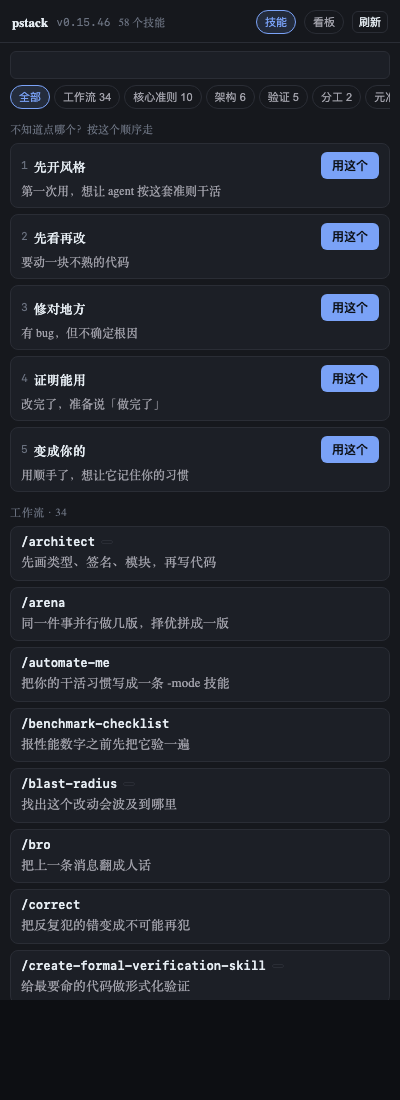
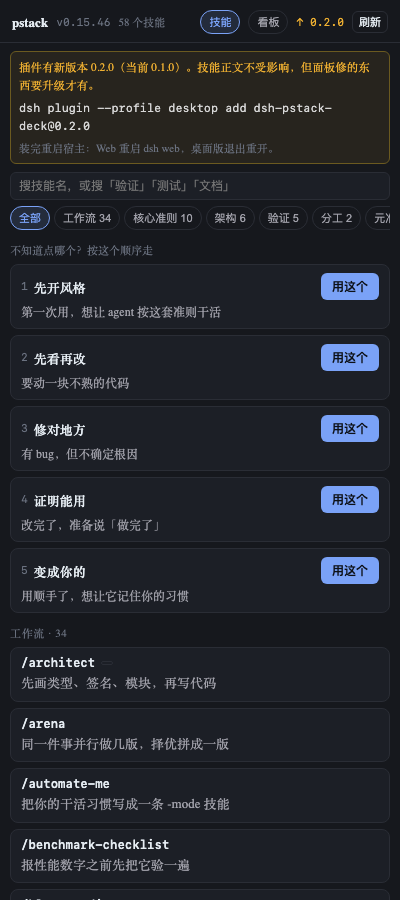
0.2.0：查更新、开发热循环、热更新边界写清
- src/update.js：按数字比版本、只缓存 latest、失败不缓存、时钟回拨不信缓存
- 面板标题栏显示插件版本，有新版本转琥珀色 ↑ 并在技能视图顶部给可复制的升级命令
- scripts/dev.mjs：watch src/ 自动重启临时宿主（npm run dev）
- README：热更新/热安装边界表 + 发版三坑（镜像不能发、2FA token、staged 占位版）
- 测试 46/46

diff --git a/src/client.js b/src/client.js
@@ -54,6 +54,8 @@ window.__ModuleLoader__.load({
       flow: false, // 看板：列表 or 流程图
       toast: '',
       toastAt: 0,
+      upd: null, // {current, latest, hasUpdate, error}；null = 还没问过 npm
+      updBusy: false,
     }
     const subs = new Set()
     const emit = () => subs.forEach((fn) => fn(store))
@@ -78,6 +80,18 @@ window.__ModuleLoader__.load({
         set({ catalog: cat, loading: false })
       } catch (e) {
         set({ loading: false, error: String((e && e.message) || e) })
+      }
+    }
+
+    // 问一次 npm 上有没有新版本。宿主那半缓存十分钟，所以开面板顺手查一下不心疼。
+    const checkUpd = async (fresh) => {
+      if (store.updBusy) return
+      set({ updBusy: true })
+      try {
+        const r = await rpc('update', fresh ? { fresh: true } : {})
+        set({ upd: r, updBusy: false })
+      } catch (e) {
+        set({ upd: { error: String((e && e.message) || e) }, updBusy: false })
       }
     }
 
@@ -696,6 +710,7 @@ window.__ModuleLoader__.load({
       useStore()
       const cat = store.catalog
       React.useEffect(() => { if (!cat && store.loading) load(false) }, [])
+      React.useEffect(() => { if (!store.upd) checkUpd(false) }, [])
       React.useEffect(() => {
         if (props && props.sessionId && props.sessionId !== store.sid) set({ sid: props.sessionId })
       }, [props && props.sessionId])
@@ -712,6 +727,19 @@ window.__ModuleLoader__.load({
         h('div', { key: 'sp', style: { flex: 1 } }),
         h('button', { key: 'vs', style: { ...s.chip(store.view === 'skills'), fontSize: 11 }, onClick: () => set({ view: 'skills' }) }, '技能'),
         h('button', { key: 'vb', style: { ...s.chip(store.view === 'board'), fontSize: 11 }, onClick: toBoard }, '看板'),
+        store.upd && !store.upd.error
+          ? h('span', {
+            key: 'pv',
+            title: store.upd.hasUpdate
+              ? `插件有新版本 ${store.upd.latest}（当前 ${store.upd.current}）`
+              : `插件 ${store.upd.current || ''} 是最新的`,
+            style: {
+              ...s.faint, fontFamily: C.mono, fontSize: 11, cursor: 'pointer',
+              color: store.upd.hasUpdate ? '#f0b132' : undefined,
+            },
+            onClick: () => checkUpd(true),
+          }, store.upd.hasUpdate ? `↑ ${store.upd.latest}` : `插件 ${store.upd.current || '?'}`)
+          : null,
         cat ? h('button', { key: 'r', style: { ...s.btn(), padding: '2px 6px', fontSize: 11 }, onClick: () => { load(true); if (store.board) loadBoard() }, title: '重新读一遍磁盘' }, '刷新') : null,
       ])
 
@@ -738,10 +766,19 @@ window.__ModuleLoader__.load({
         return h('div', { style: s.wrap }, [head, h('div', { key: 'b', style: { ...s.body, ...s.faint } }, '读目录…')])
       }
 
+      const updBar = store.upd && store.upd.hasUpdate
+        ? h('div', { key: 'upd', style: { margin: '8px 10px 0', padding: '6px 8px', border: '1px solid #6b5a20', borderRadius: 6, background: 'rgba(240,177,50,.08)', color: '#f0b132', fontSize: 11.5, lineHeight: 1.6 } }, [
+          h('div', { key: 't' }, `插件有新版本 ${store.upd.latest}（当前 ${store.upd.current}）。技能正文不受影响，但面板修的东西要升级才有。`),
+          h('div', { key: 'c', style: { fontFamily: C.mono, userSelect: 'all', marginTop: 4, color: '#d8d8d8' } }, 'dsh plugin --profile desktop add dsh-pstack-deck@' + store.upd.latest),
+          h('div', { key: 'n', style: { ...s.faint, marginTop: 4 } }, '装完重启宿主：Web 重启 dsh web，桌面版退出重开。'),
+        ])
+        : null
+
       const groups = GROUP_ORDER.filter((g) => (cat.groups[g] || []).length)
 
       return h('div', { style: s.wrap }, [
         head,
+        updBar,
         h('div', { key: 'find', style: { padding: '8px 10px 0', flex: 'none' } }, [
           h('input', {
             key: 'q',

diff --git a/src/update.js b/src/update.js
@@ -1,0 +1,58 @@
+// 版本检查：面板上「是不是落后了」这个问题，答案只可能是「去 npm 看一眼」。
+//
+// 不引 semver 依赖——比版本号这件事按 x.y.z 数字比就够了，
+// 预发布标记（0.2.0-beta.1）按「比同号正式版旧」处理。
+
+const REGISTRY = 'https://registry.npmjs.org'
+const TTL = 10 * 60 * 1000 // 十分钟内不重复打 npm，免得每次开面板都发请求
+
+// 缓存只存「npm 上最新版是多少」，不存结论——结论取决于调用方传进来的 current，
+// 而 current 会随升级变化，缓存结论会在升级后撒谎。
+let cache = { at: 0, latest: '', error: '' }
+
+/** 把 "0.1.0" / "0.2.0-beta.3" 拆成 [0,1,0] + 预发布标记 */
+export function parseVersion(v) {
+  const m = String(v).trim().match(/^v?(\d+)\.(\d+)\.(\d+)(?:-([0-9A-Za-z.-]+))?/)
+  if (!m) return null
+  return { num: [Number(m[1]), Number(m[2]), Number(m[3])], pre: m[4] || '' }
+}
+
+/** a 比 b 新返回 true；解析不了就一律 false（宁可漏报，不误报） */
+export function newer(a, b) {
+  const x = parseVersion(a)
+  const y = parseVersion(b)
+  if (!x || !y) return false
+  for (let i = 0; i < 3; i += 1) {
+    if (x.num[i] !== y.num[i]) return x.num[i] > y.num[i]
+  }
+  if (x.pre === y.pre) return false
+  if (!x.pre) return true // 正式版比预发布新
+  if (!y.pre) return false
+  return x.pre > y.pre
+}
+
+/**
+ * 问一次 npm：这个包最新版是多少。
+ * fetcher 可注入，测试里不用真联网。
+ */
+export async function checkUpdate({ current, fetcher = fetch, now = Date.now(), useCache = true } = {}) {
+  const base = { current, latest: '', hasUpdate: false, cached: false, error: '' }
+  const age = now - cache.at
+  if (useCache && cache.at && age >= 0 && age < TTL) { // age<0 = 时钟回拨，别信缓存
+    return { ...base, latest: cache.latest, error: cache.error, hasUpdate: newer(cache.latest, current), cached: true }
+  }
+  try {
+    const res = await fetcher(`${REGISTRY}/dsh-pstack-deck`, {
+      headers: { accept: 'application/vnd.npm.install-v1+json' },
+    })
+    if (!res || !res.ok) throw new Error(`registry ${res ? res.status : 'no response'}`)
+    const meta = await res.json()
+    const latest = meta?.['dist-tags']?.latest || ''
+    cache = { at: now, latest, error: '' }
+    return { ...base, latest, hasUpdate: newer(latest, current) }
+  } catch (e) {
+    // 离线、被墙、registry 抽风：说清楚没查到，不要装作是最新
+    // 失败不写缓存：断网十秒后恢复，不该还拿着十秒前的失败结论
+    return { ...base, error: String((e && e.message) || e) }
+  }
+}

diff --git a/src/host.js b/src/host.js
@@ -26,8 +26,9 @@ import {
   saveCard,
   stateZh,
 } from './board.js'
-import { buildCatalog, toProviderItem, repoRoot, zhRoot, PROVIDER } from './catalog.js'
+import { buildCatalog, toProviderItem, repoRoot, zhRoot, PROVIDER, PKG_ROOT } from './catalog.js'
 import { suggest } from './suggest.js'
+import { checkUpdate } from './update.js'
 import { zhOf } from './i18n.js'
 
 export const name = 'dsh-pstack-deck'
@@ -81,6 +82,11 @@ async function skillBody(skillName) {
 
 // 返回形状就是 connection.rpc.call 的解包契约：{ok:true, value} 或 {ok:false, error}。
 const methods = {
+  async update(payload) {
+    const pkg = JSON.parse(await readFile(join(PKG_ROOT, 'package.json'), 'utf8'))
+    const r = await checkUpdate({ current: pkg.version, useCache: payload?.fresh !== true })
+    return { ok: true, value: r }
+  },
   async catalog(payload) {
     const cat = await catalog({ fresh: payload?.fresh === true })
     return {

diff --git a/README.md b/README.md
@@ -176,18 +176,54 @@ src/
 zh/            58 篇中文正文（与 repo/skills 逐篇对齐，npm run check:zh 校验）
 repo/          pstack 上游只读快照（skills / plugin.json / LICENSE）
 scripts/       sync-skills（推到 ~/.dsh/skills）、check-zh、preview（自渲染截图）
-test/          node --test，41 条
+test/          node --test，45 条
 docs/          parallel-tasks.md + 预览截图
 ```
 
 ## 开发
 
 ```bash
-npm test           # 41 条，覆盖目录解析、路由信封、工具、看板、依赖图、建议、客户端渲染
+npm test           # 45 条：目录解析、路由信封、工具、看板、依赖图、建议、版本比较、客户端渲染
+npm run dev        # 起一个临时宿主（默认 web profile:5599），改 src/ 自动重启
 npm run preview    # 用假 React 把面板渲染成 HTML，再用 Chrome 截图，不用起宿主
 npm run sync       # 把 repo/skills 推到 ~/.dsh/skills（--dry 只看差异）
 npm run check:zh   # 中文正文与原文逐篇对齐检查
 ```
+
+本地改代码用 `link:` 安装：
+
+```bash
+dsh plugin --profile desktop add link:/绝对路径/dsh-pstack-deck
+```
+
+### 热更新与热安装：哪些是热的
+
+这不是我保守，是宿主的能力边界。分三半看：
+
+| 你改了什么 | 要不要重启宿主 |
+|---|---|
+| `repo/skills/*.md`、`zh/*.md`、`.pstack/board/*.md` | **不要**。每次请求现读磁盘，面板点「刷新」/「重读」立刻生效 |
+| `src/client.js`（面板 UI） | **要**。客户端 bundle 在启动时按内容哈希构建一次（请求里的 `?rev=`），profile 里没有可覆盖的 bundle 缓存 |
+| `src/host.js` / `src/tools.js` | **要**。往 cordis 注册的技能 provider、HTTP 路由、工具都没有卸载重挂的入口 |
+| 升级到新版本 | 看宿主回报的 `activation`：`client-only` → 刷新页面；否则 → 重启 |
+
+所以「技能内容热更新」是这个项目的设计红利，「代码热更新」没有。`npm run dev` 把手动退出重开压成一次保存，仅此而已；唯一存在 HMR 通道的是 DSH 自己 checkout 里 `pnpm run dev:web` 起的那条，不覆盖 npm 装的第三方包。
+
+面板自己会查 npm：启一次（十分钟缓存）之后，标题栏显示 `插件 0.1.0` 或琥珀色的 `↑ 0.1.1`；有新版本时技能视图顶部给一条可复制的升级命令。
+
+### 发版
+
+```bash
+npm version patch                 # 或 minor / major
+npm test && npm run check:zh
+npm publish --registry=https://registry.npmjs.org --access public
+```
+
+三个坑，踩过：
+
+- 本机默认 registry 可能是国内镜像（`registry.npmmirror.com`），**镜像不能发**，必须显式带 `--registry`。
+- 账号开了 2FA 时，普通 token 发布报 `403 … two-factor authentication … required`；要么 `--otp=123456`，要么用勾了 **Bypass two-factor authentication** 的 Granular Access Token。
+- npm 对新包走 staged publishing：一发布先出现 `0.0.0-stage` 占位版，几秒后才落成真实版本，别看到占位版就以为失败了。
 
 ## 已知边界
 
